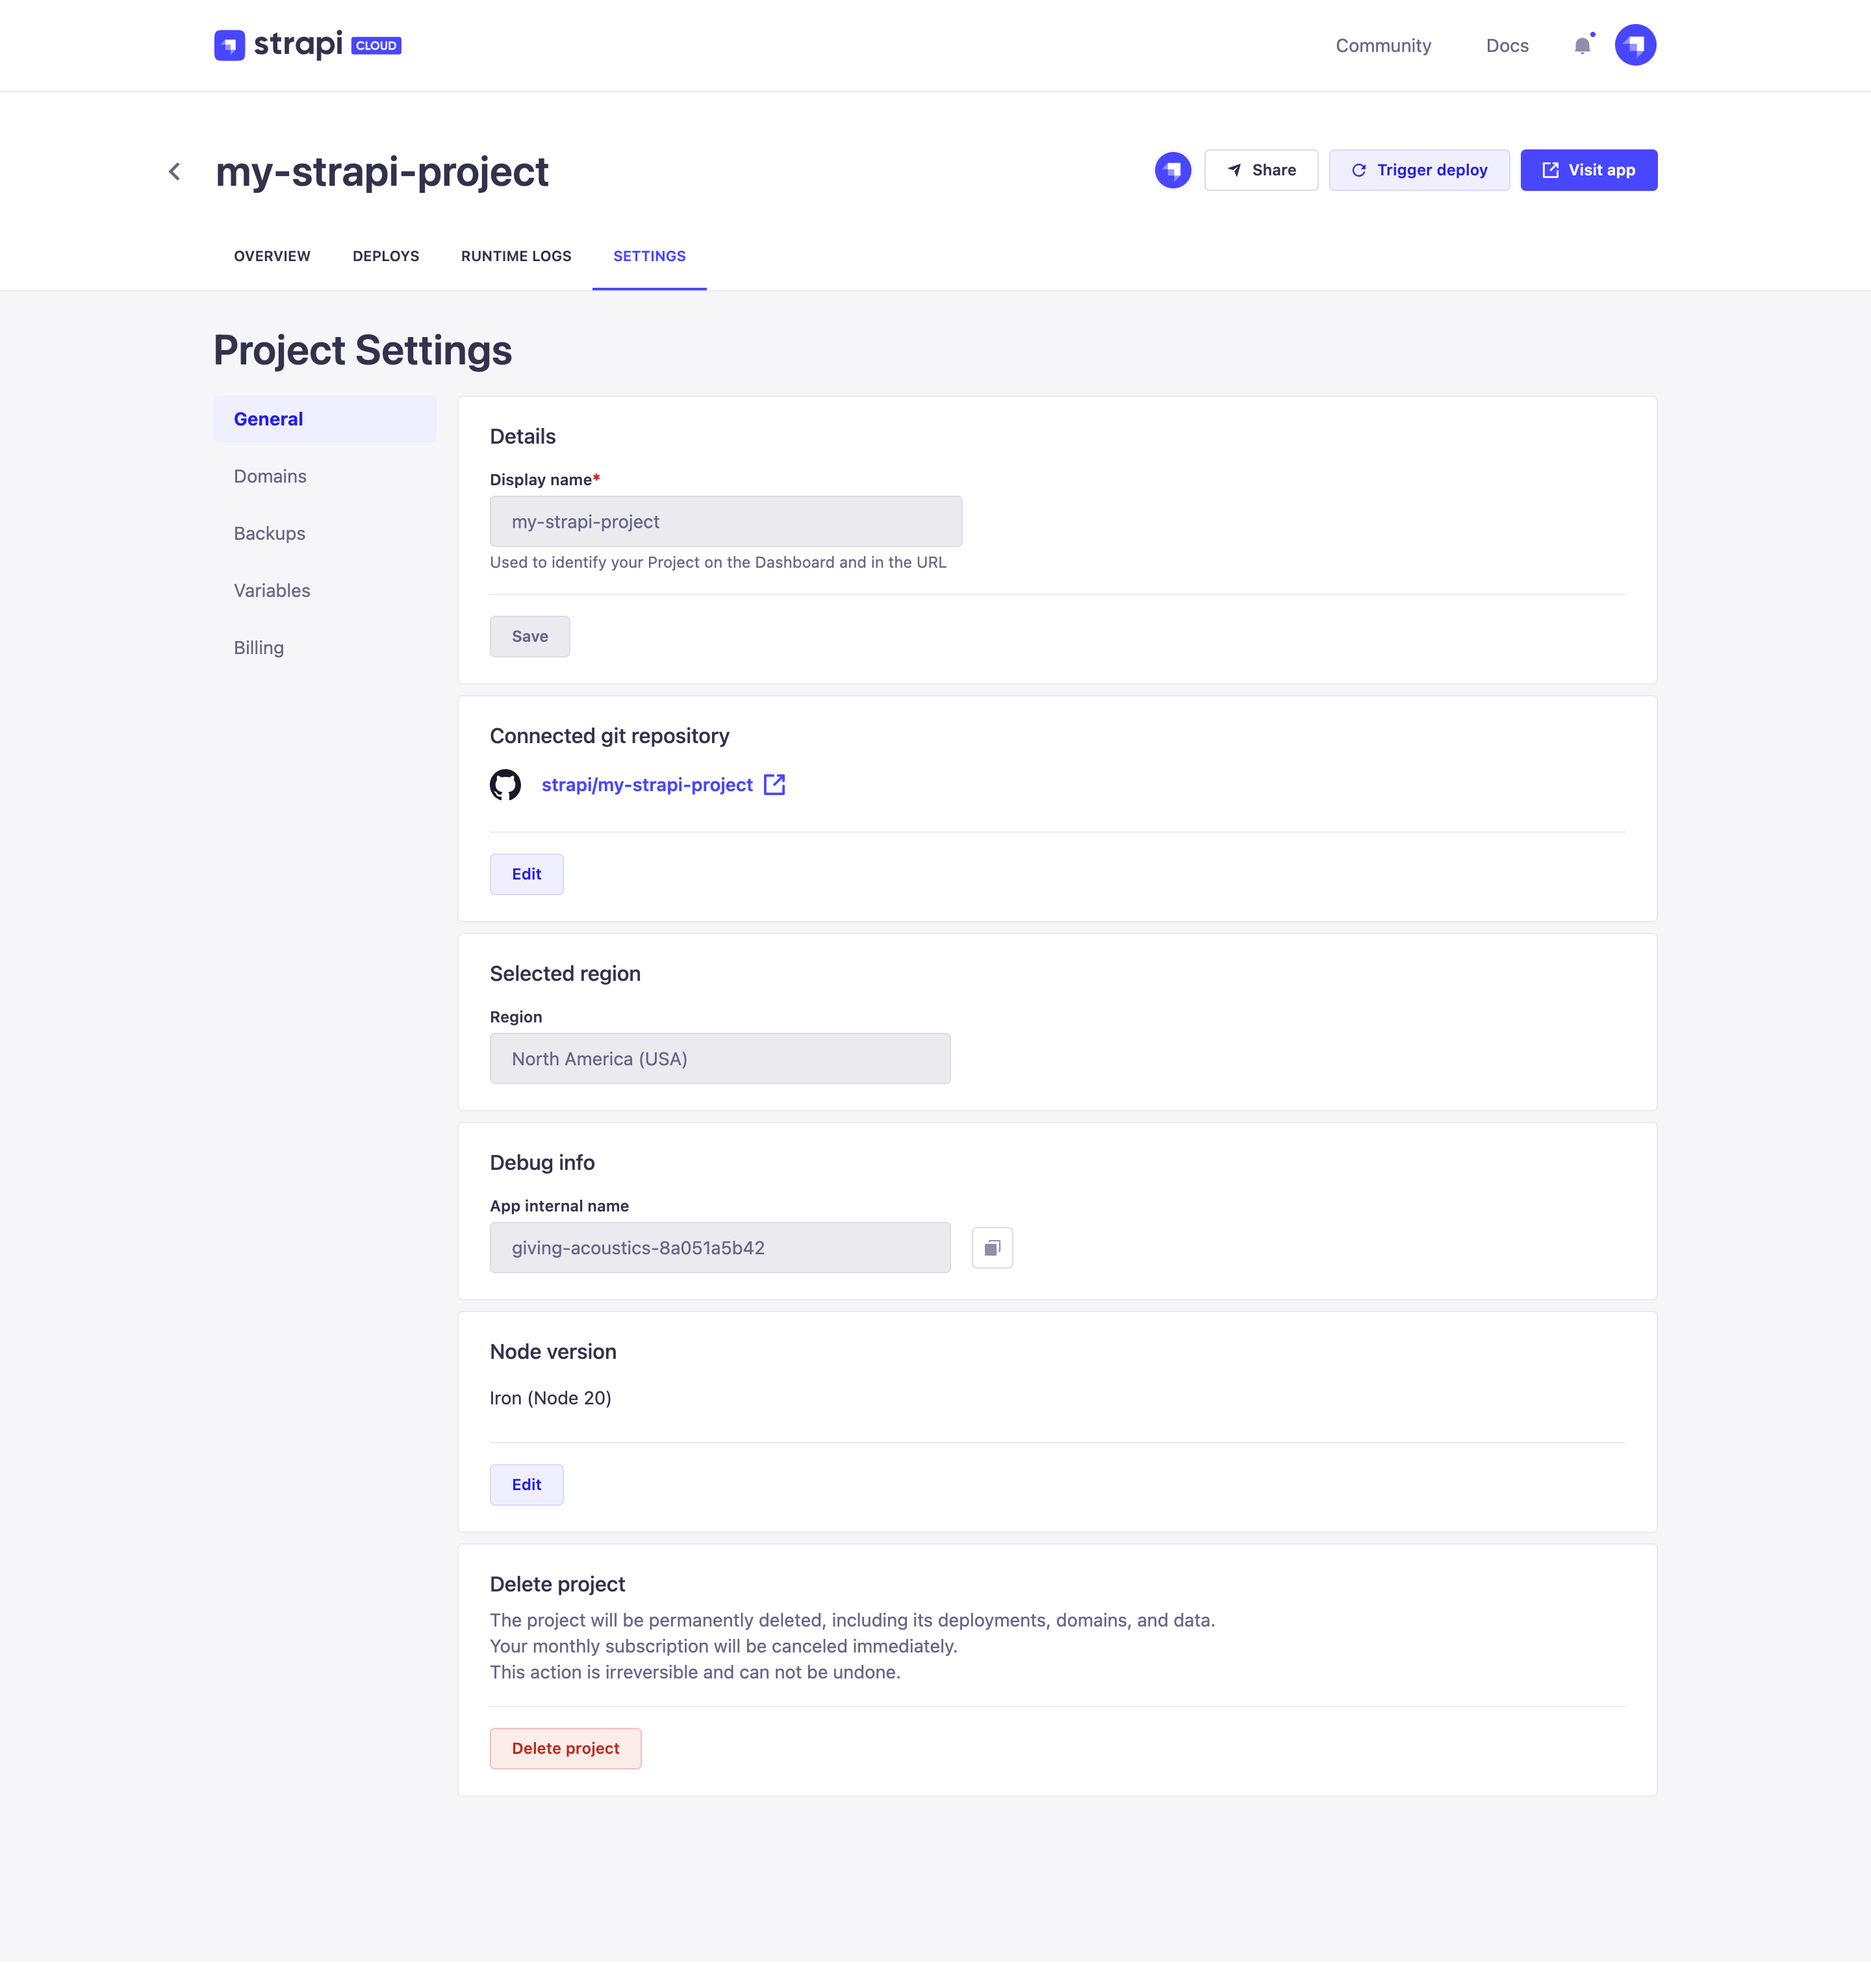
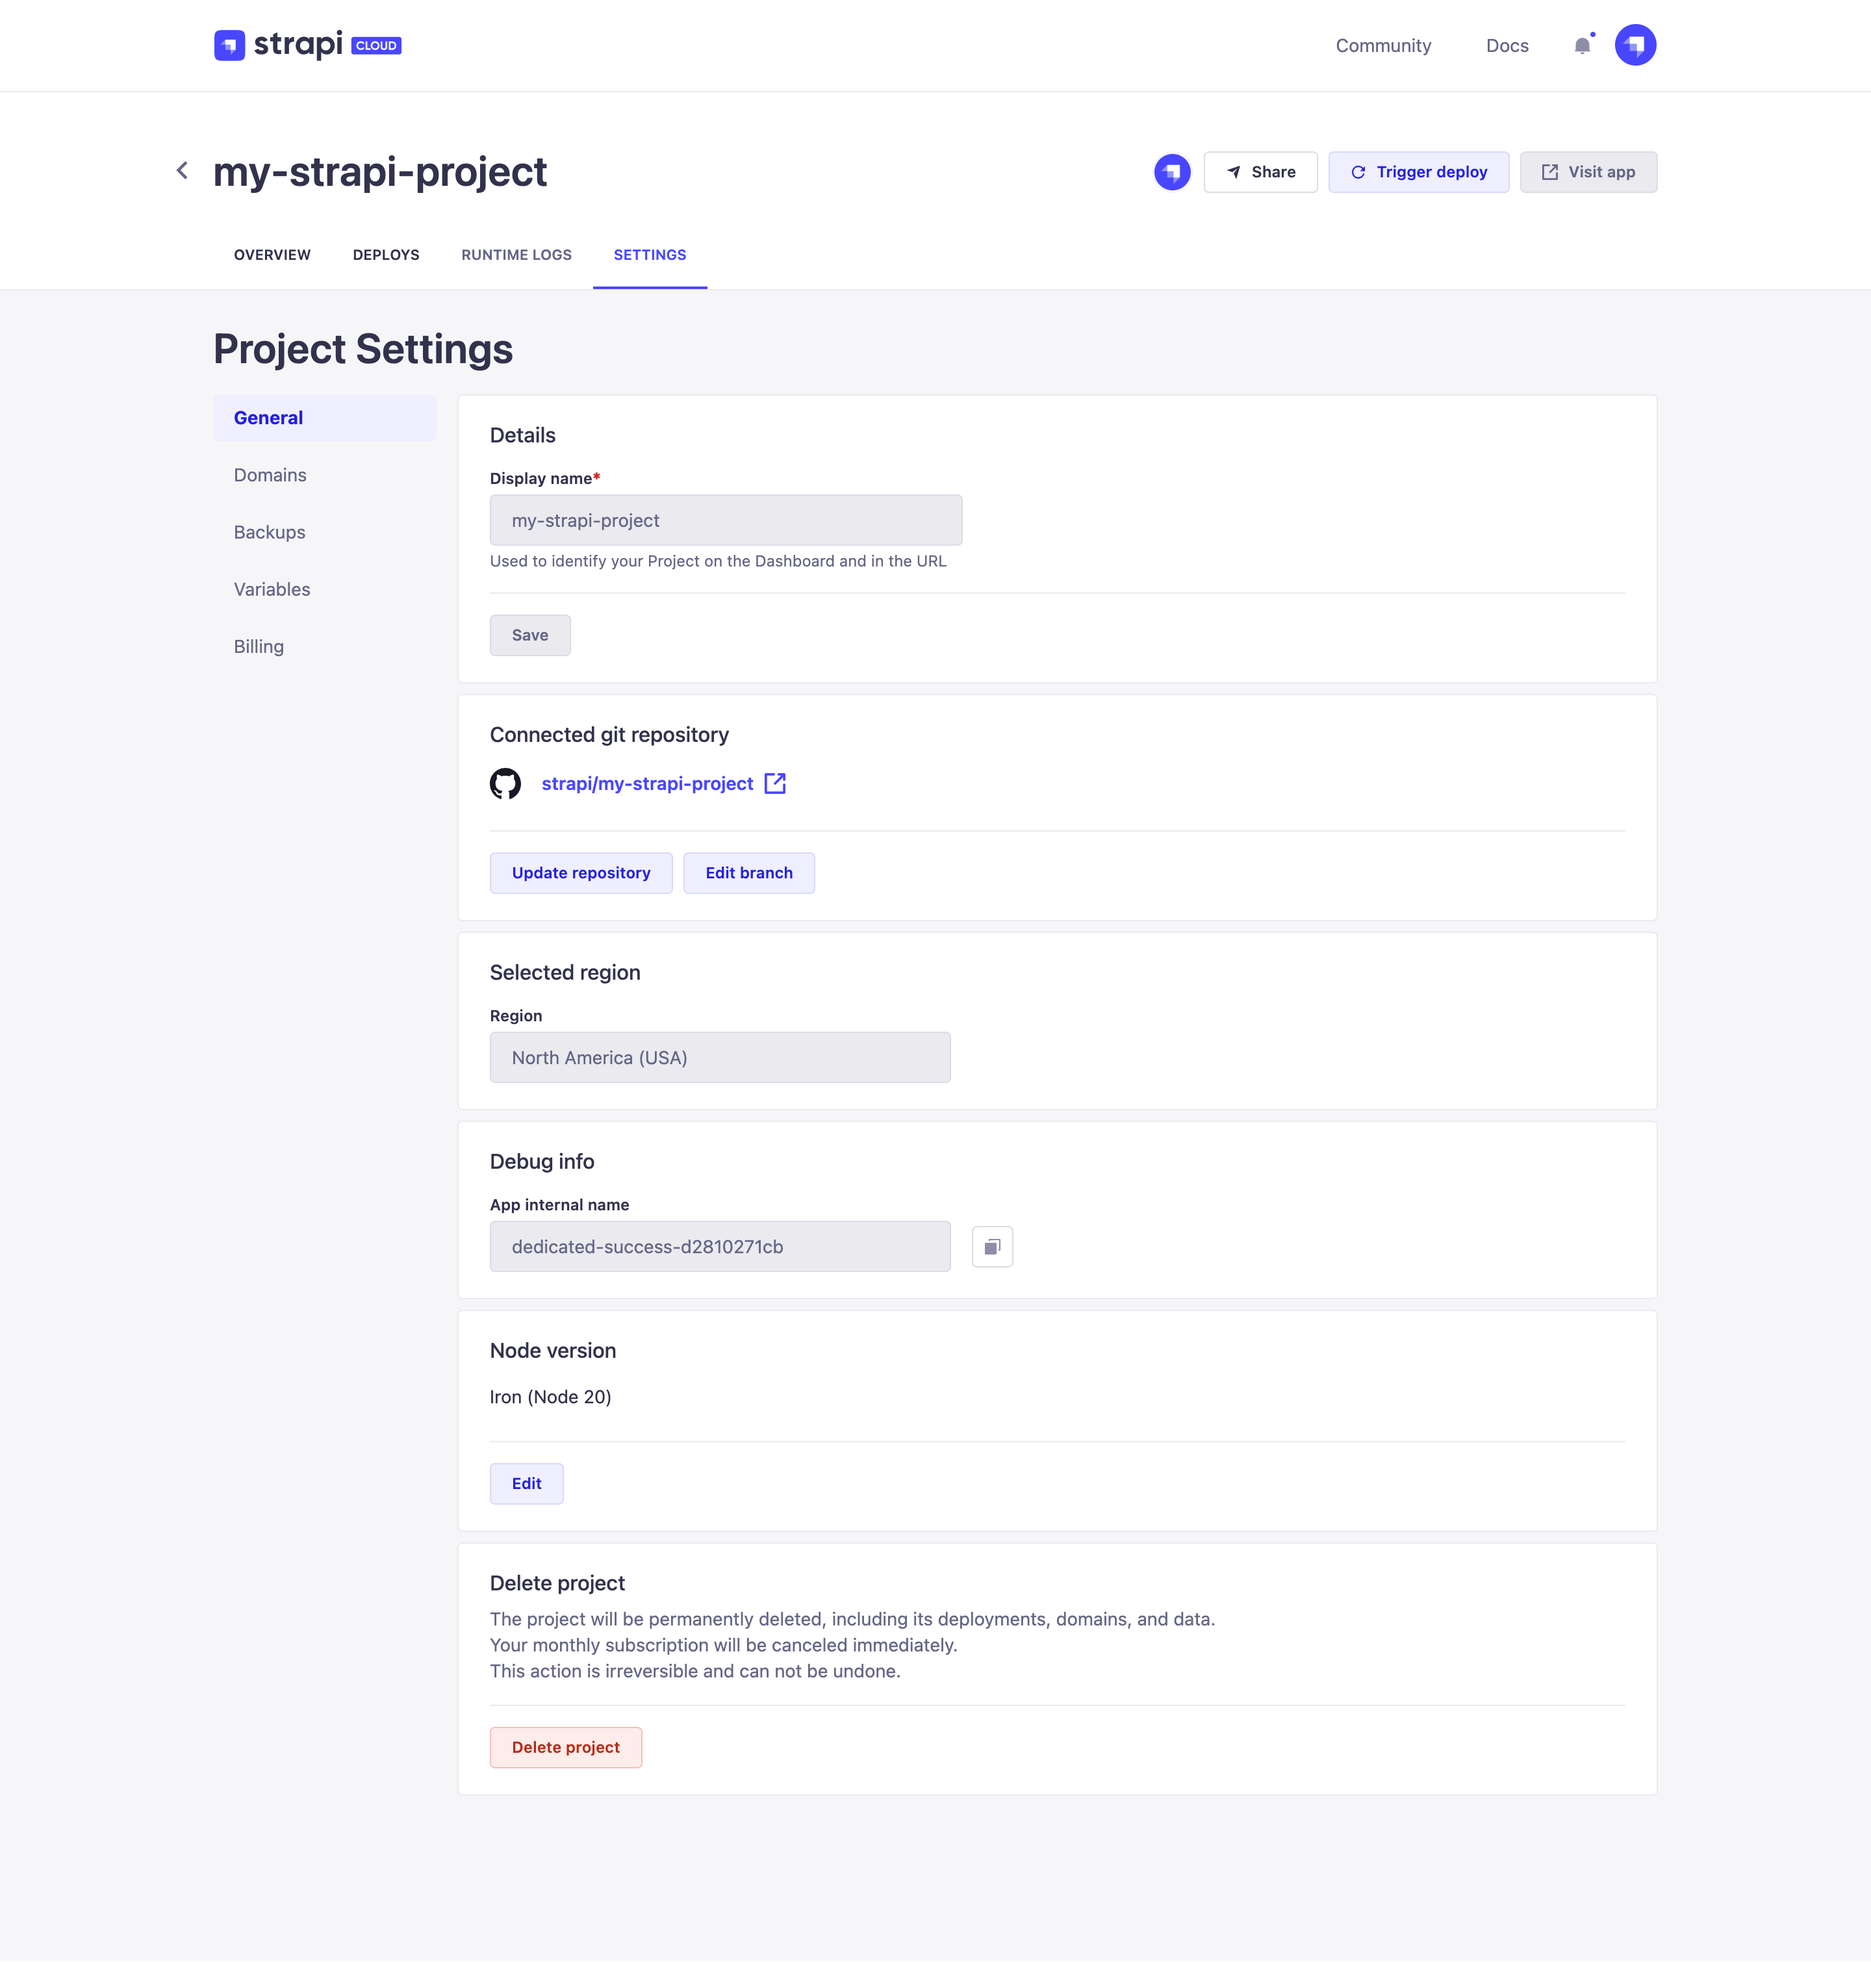
Strapi Cloud: reconnect a repo (#2023)
* First draft to add reconnect a repo in project settings documentation

* Finish documenting reconnect a repo

* Update screenshot

* Add caution callout

diff --git a/docusaurus/docs/cloud/projects/settings.md b/docusaurus/docs/cloud/projects/settings.md
@@ -31,16 +31,40 @@ The *General* tab enables you to check and update the following options for the 
   }}
 />
 
-### Modifying git repository branch
+### Modifying git repository & branch
 
-The GitHub or Gitlab repository branch and base directory for a Strapi Cloud project are by default chosen at the creation of the project (see [Creating a project](/cloud/getting-started/deployment)). Both can afterwards be edited via the project's settings.
+The GitHub or Gitlab repository, branch and base directory for a Strapi Cloud project are by default chosen at the creation of the project (see [Creating a project](/cloud/getting-started/deployment)). After the project's creation, via the project's settings, it is possible to:
 
-1. In the *Connected git repository* section of the *General* tab, click on the **Edit** button.
-2. In the *Edit Git settings* dialog, edit the available options of your choice:
+- update the project's repository or switch to another git provider (see [Updating repository](#updating-repository)),
+- edit the project's branch, base directory and deploy on push setting (see [Editing branch](#editing-branch)).
+
+:::caution
+Updating the git repository could result in the loss of the project and its data, for instance if the wrong repository is selected or if the data schema between the old and new repository doesn't match.
+:::
+
+#### Updating repository
+
+1. In the *Connected git repository* section of the *General* tab, click on the **Update repository** button.
+2. (optional) If you wish to not only update the repository but switch to another git provider, click on the **Switch to GitHub/GitLab** button at the bottom of the *Update repository* dialog. You will be redirected to the chosen git provider's authorization settings before getting back to the *Update repository dialog*.
+3. In the *Update repository* dialog, fill in the 3 available settings:
 
     | Setting name    | Instructions                                                             |
     | --------------- | ------------------------------------------------------------------------ |
-    | Selected branch | Choose a branch from the drop-down list.                                 |
+    | Account         | Choose an account from the drop-down list.                               |
+    | Repository      | Choose a repository from the drop-down list.                             |
+    | Git branch      | Choose a branch from the drop-down list.                                 |
+
+4. Click on the **Save** button.
+5. In the confirmation dialog, confirm your changes by clicking on the **Relink repository** button.
+
+#### Editing branch
+
+1. In the *Connected git repository* section of the *General* tab, click on the **Edit branch** button.
+2. In the *Edit branch* dialog, edit the settings below:
+
+    | Setting name    | Instructions                                                             |
+    | --------------- | ------------------------------------------------------------------------ |
+    | Git branch      | Choose a branch from the drop-down list.                                 |
     | Base directory  | Write the path of the base directory in the textbox.                     |
     | Deploy the project on every commit pushed to this branch | Tick the box to automatically trigger a new deployment whenever a new commit is pushed to the selected branch. Untick it to disable the option. |
 
